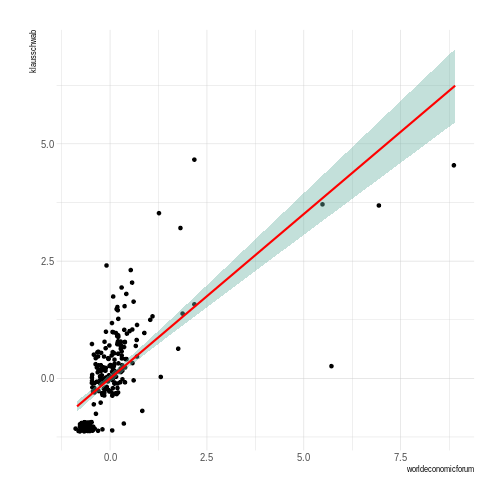
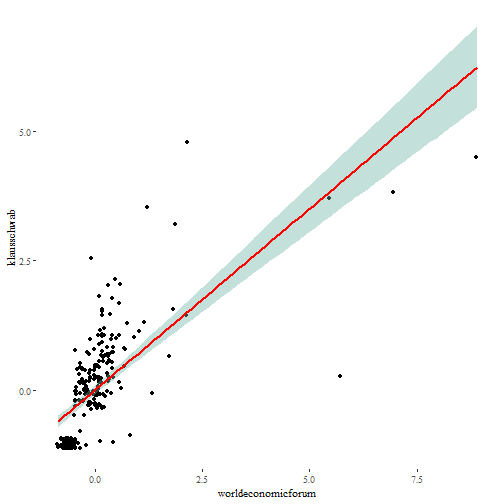
update 3

diff --git a/3data.html b/3data.html
@@ -120,7 +120,7 @@ standardized_ideas &lt;- data.frame(week = 1:nrow(unusualideas), scale(unusualid
 cricketcity.plot &lt;- standardized_ideas %&gt;% ggplot(aes(x=fifteenminutecity, y=cricketflour)) +
   geom_jitter() +
   geom_smooth(method=lm , color="red", fill="#69b3a2", se=TRUE) +
-  theme_ipsum()
+  theme_tufte()
 ```
 ---
 
@@ -140,7 +140,7 @@ cricketcity.plot
 wefcity.plot &lt;- standardized_ideas %&gt;% ggplot(aes(x=fifteenminutecity, y=worldeconomicforum)) +
   geom_jitter() +
   geom_smooth(method=lm , color="red", fill="#69b3a2", se=TRUE) +
-  theme_ipsum()
+  theme_tufte() 
 ```
 ---
 
@@ -160,7 +160,7 @@ wefcity.plot
 cricketwef.plot &lt;- standardized_ideas %&gt;% ggplot(aes(x=worldeconomicforum, y=cricketflour)) +
   geom_jitter() +
   geom_smooth(method=lm , color="red", fill="#69b3a2", se=TRUE) +
-  theme_ipsum()
+  theme_tufte() 
 ```
 ---
 
@@ -180,7 +180,7 @@ cricketwef.plot
 schwabwef.plot &lt;- standardized_ideas %&gt;% ggplot(aes(x=worldeconomicforum, y=klausschwab)) +
   geom_jitter() +
   geom_smooth(method=lm , color="red", fill="#69b3a2", se=TRUE) +
-  theme_ipsum()
+  theme_tufte() 
 ```
 ---
 
